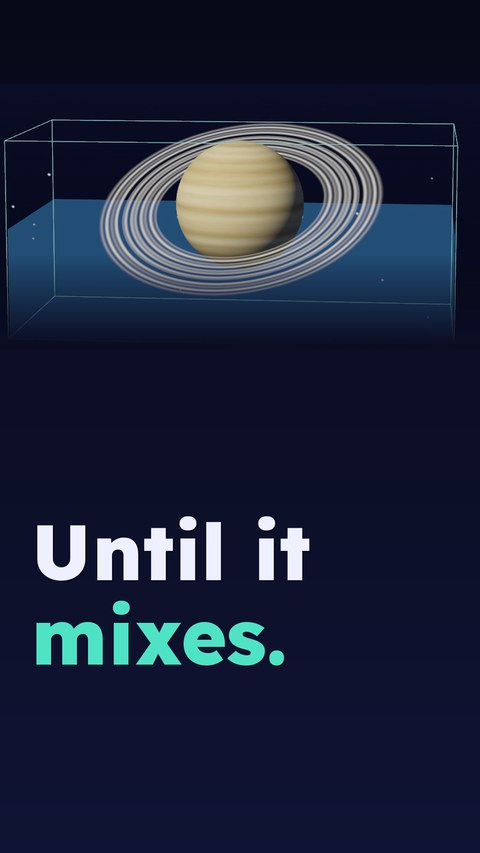
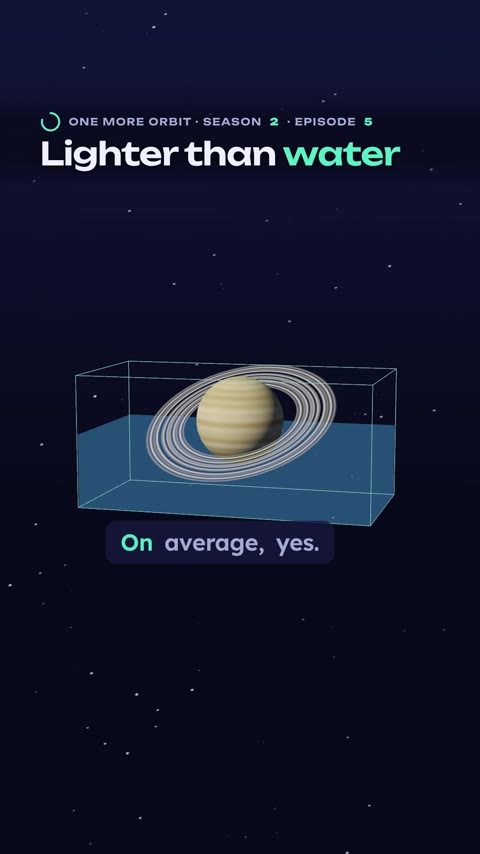
S2E05 packaging: true premise + question title ('Saturn Is Less Dense Than Water. Would It Float?'), thumbnail text 'Not quite.'
Claude-Session: https://claude.ai/code/session_0192s8Y299kJsjRBF6aCopey

diff --git a/films/channels/space/ep11/out/POSTING.md b/films/channels/space/ep11/out/POSTING.md
@@ -1,4 +1,4 @@
-# Posting sheet: One More Orbit · Season 2 · Episode 5, "Saturn Would Float in Water. Here's the Catch"
+# Posting sheet: One More Orbit · Season 2 · Episode 5, "Saturn Is Less Dense Than Water. Would It Float?"
 
 Generated from the script and claims. Turn on each platform's AI / synthetic content label. Captions are burned in: leave auto-captions off. Post as a vertical video (Shorts / TikTok / Reel). **Before posting, a person opens every source link** (the builder read the pages; no claim is person-verified yet).
 
@@ -7,12 +7,12 @@ Generated from the script and claims. Turn on each platform's AI / synthetic con
 ## YouTube Shorts
 **Title**
 
-Saturn Would Float in Water. Here's the Catch
+Saturn Is Less Dense Than Water. Would It Float?
 
 **Description**
 
 ```
-Saturn would float in water, in a thought experiment. Here's the catch.
+Saturn is less dense than water. Would it float? Not quite.
 
 Saturn's average density is lower than water's, so in a thought experiment it floats. Real Saturn is gas and would not stay in one piece.
 
@@ -57,7 +57,7 @@ Sources
 **Caption**
 
 ```
-Saturn would float in water, in a thought experiment. Here's the catch. #space #astronomy #learnontiktok #science #cosmos
+Saturn is less dense than water. Would it float? Not quite. #space #astronomy #learnontiktok #science #cosmos
 ```
 
 **Pinned comment** (150-character limit)
@@ -70,7 +70,7 @@ Sources: science.nasa.gov; nssdc.gsfc.nasa.gov. Synthetic (AI) voice; code-rende
 **Caption**
 
 ```
-Saturn would float in water, in a thought experiment. Here's the catch.
+Saturn is less dense than water. Would it float? Not quite.
 
 Saturn's average density is lower than water's, so in a thought experiment it floats. Real Saturn is gas and would not stay in one piece.
 
